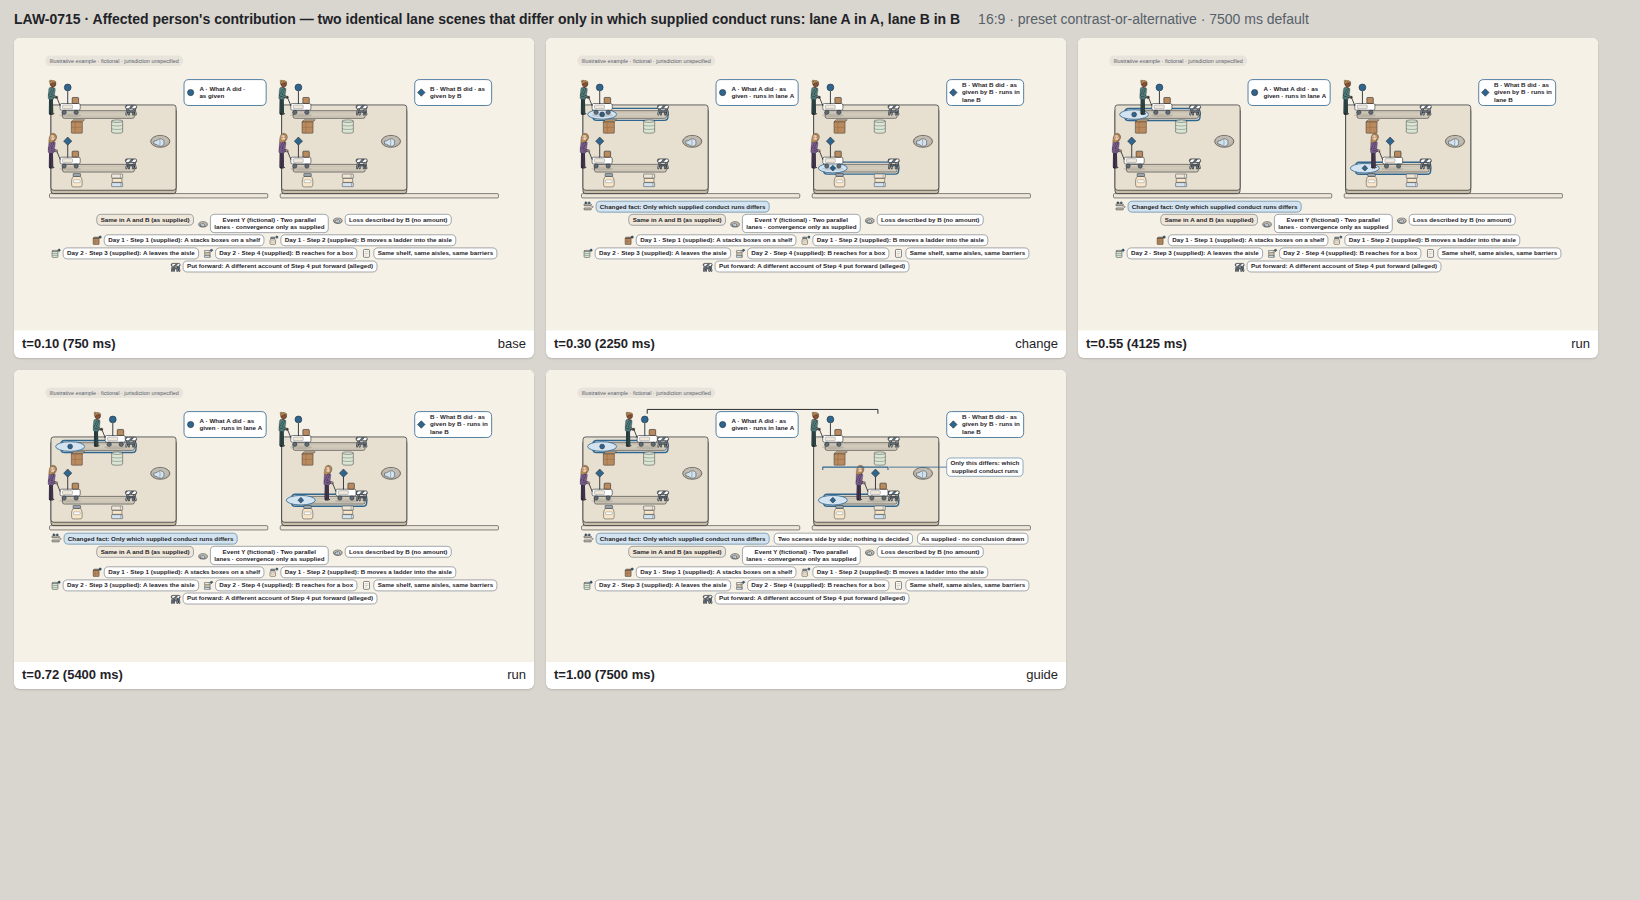
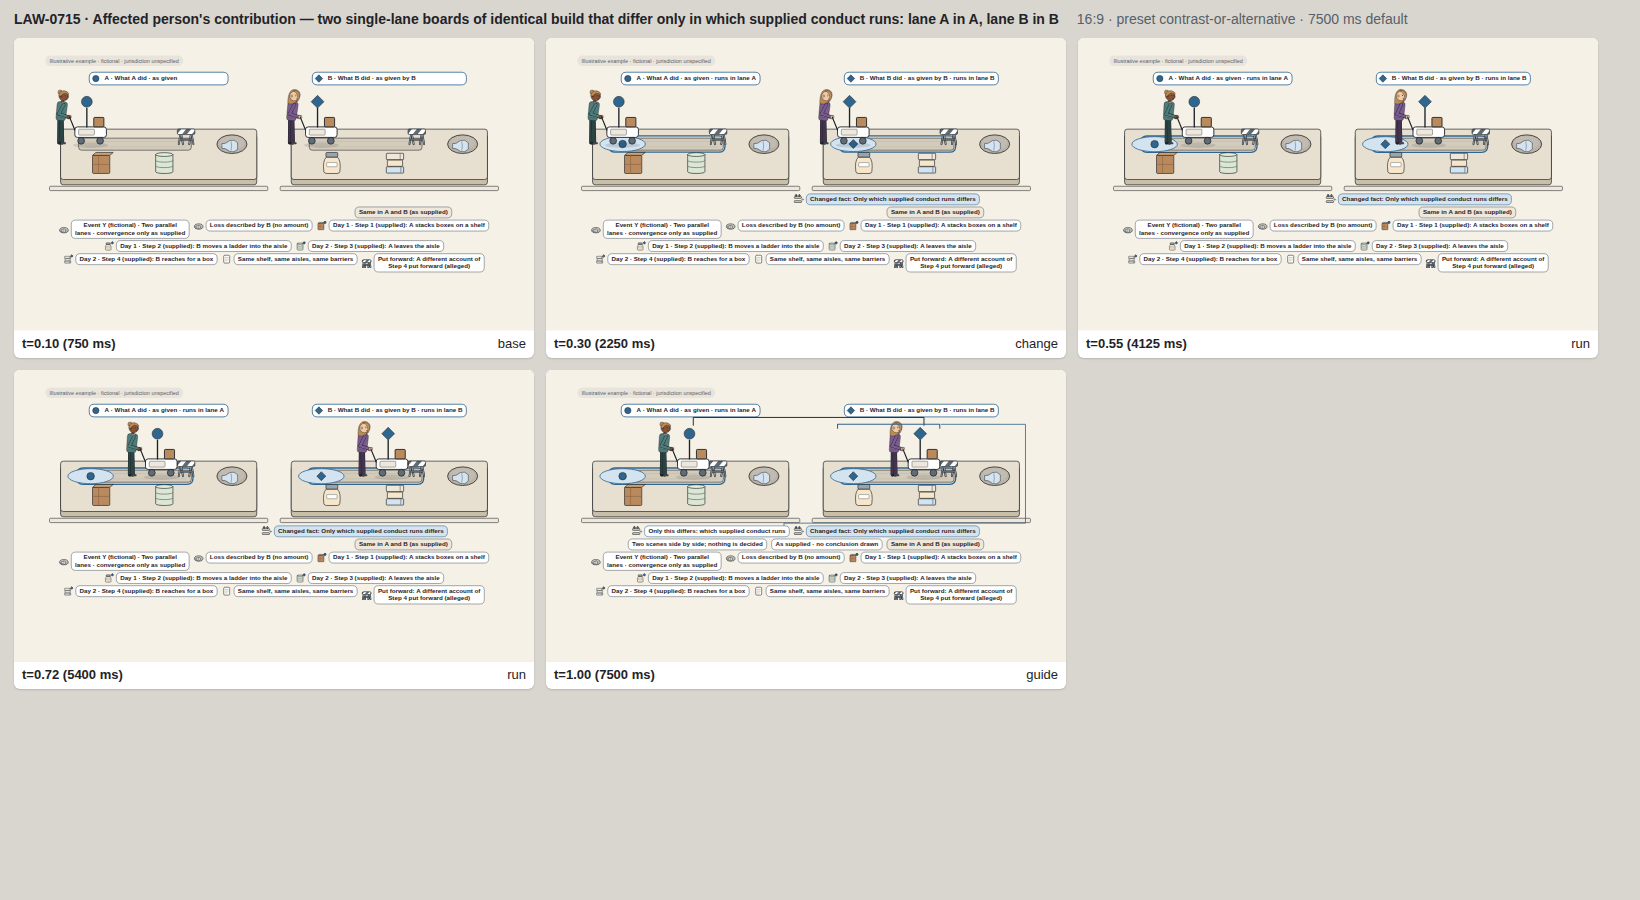
review-03: 0331/0332 round-4 fixes

diff --git a/src/animations/contract-terms/LAW-0507.js b/src/animations/contract-terms/LAW-0507.js
@@ -73,7 +73,7 @@ const isStress = p => [...p.clauses, p.claim.label, p.contract.title, p.scenario
 /* ---------------------------------------------------------------------- */
 
 /** One bench's geometry in local coordinates (origin = bench top-left). */
-function benchGeom(ctx, p, bw, bh, F, minF, stress, headerTextH) {
+function benchGeom(ctx, p, bw, bh, F, minF, stress, headerTextH, sf = 0.55) {
   const why = [];
   const pi = promiseIndex(p);
   const prong = 50;
@@ -88,7 +88,7 @@ function benchGeom(ctx, p, bw, bh, F, minF, stress, headerTextH) {
   const ch0 = bandH + 22 + rowH + 30;
   const panelH0 = bh - headerH - 8;
   const sw = clamp(bw * (stress ? 0.31 : 0.25), 205, 340);
-  const TT = slipText(ctx, p, sw, F, minF, stress, Math.max(F * 4.4, (panelH0 - 34 - 28 - 46) * 0.55));
+  const TT = slipText(ctx, p, sw, F, minF, stress, Math.max(F * 4.4, (panelH0 - 34 - 28 - 46) * sf));
   const PA = 0.3;
   TT.prongAt = PA;
   const ch = Math.max(ch0, Math.min(TT.h * 1.1, panelH0 - 96));
@@ -213,7 +213,10 @@ function geom(ctx, F, minF, side, colMode = false) {
   const R0 = F * 0.9;
   const headerFits = [p.scenarioA.label, p.scenarioB.label].map(t => (show ? fitG(t, {maxWidth: bw - R0 * 2 - 40, size: F, minSize: minF, maxLines: 2, weight: 700}) : null));
   if (headerFits.some(f => f && f.bad)) why.push('header-text');
-  const B = (vMode ? benchGeomV : benchGeom)(ctx, p, bw, bh, F, minF, stress, Math.max(0, ...headerFits.map(f => (f ? f.height : 0))));
+  const hT = Math.max(0, ...headerFits.map(f => (f ? f.height : 0)));
+  let B = null;
+  if (vMode) B = benchGeomV(ctx, p, bw, bh, F, minF, stress, hT);
+  else for (const sf of [0.85, 0.72, 0.55]) { B = benchGeom(ctx, p, bw, bh, F, minF, stress, hT, sf); if (!B.why.length) break; }
   why.push(...B.why);
   const origins = side ? [{x: m, y: m}, {x: m + bw + gap, y: m}] : [{x: m, y: m}, {x: m, y: m + bh + gap}];
   const yb = colMode ? m + Math.max(0, (D.h - 2 * m - (stripH + notesH + 14)) / 2) : m + (side ? bh : 2 * bh + gap) + 14;
